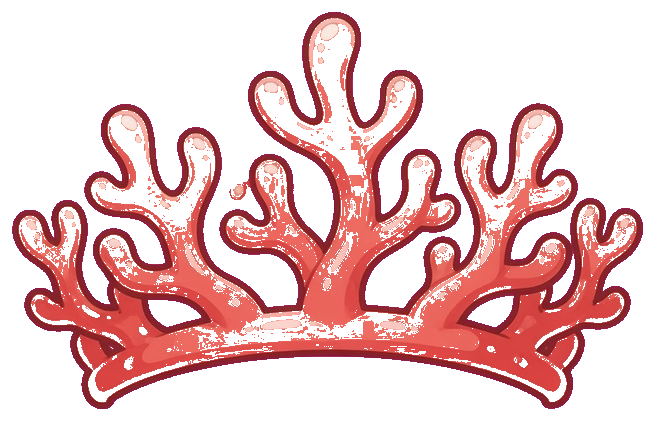
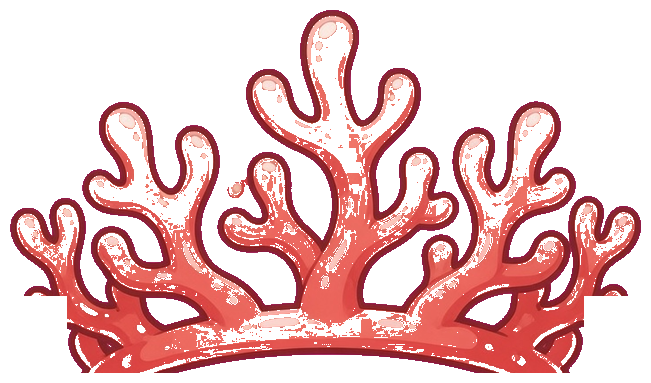
Fix crowns, gems scale, and Hold hand grips (v1.0.010)
Crowns are front-facing only — wrap-around back-of-head bands removed so
they sit on the hair instead of floating as full 3D rings. Jewelry is
smaller at the collarbone; gem pieces keep a real chain, not a bare
pendant. Hold items pin to per-look handX/handY so they land in the palm
instead of floating by the hip or tail.

diff --git a/js/config.js b/js/config.js
@@ -1,7 +1,7 @@
 'use strict';
 
 // Mermaid Dress-Up — Keep CACHE in sw.js in sync: 'dress-up-mermaid-' + GAME_VERSION
-const GAME_VERSION = '1.0.009';
+const GAME_VERSION = '1.0.010';
 const GAME_VERSION_LABEL = 'v' + GAME_VERSION;
 const GAME_NAME = 'Mermaid Dress-Up';
 
@@ -42,41 +42,41 @@ const BACKGROUNDS = [
  * Mermaid styles + poses (complete illustrated characters).
  * Colors = different outfits; pose-* = different body poses of the classic gold mermaid.
  *
- * headX / neckX = the character's true head and neck axis as a fraction of the
- * full art width. Crowns center on headX and necklaces on neckX, because the
- * bounding-box center is biased sideways by billowing hair / a curling tail and
- * is NOT where the accessory belongs. Measured per look with
- * scripts/measure-centerline.mjs; see docs/ARCHITECTURE.md → "Accessory alignment".
+ * headX / neckX / handX = axes as a fraction of full art width (crown, necklace,
+ * hold grip). Bounding-box center is biased by hair/tail and is NOT where
+ * accessories belong. See docs/ARCHITECTURE.md → "Accessory alignment".
  *
- * headY / neckY (optional) = fraction of full art height for the crown rest
- * line (bottom of crown box) and jewelry top. Only needed when a look's framing
- * differs from the gold-teal content box (pose-*). Color looks omit these and
- * use ACCESSORY_LAYOUT content-box fractions.
+ * headY / neckY (optional) = full-art-height pins for crown rest / jewelry top
+ * when framing differs from gold-teal (pose-*).
+ * handY = full-art-height grip for Hold items (defaults on LOOK_CENTER_DEFAULT).
  */
 const LOOKS = [
-  // Color looks share the same base linework (identical bounds): head axis
-  // ~0.537, torso/neck axis ~0.552 (she's drawn with a slight rightward twist).
-  { id: 'gold-teal',      label: 'Gold',     src: 'art/layers/look/gold-teal.png',      swatch: '#F5D76E', headX: 0.537, neckX: 0.552 },
-  { id: 'pink-sparkle',   label: 'Pink',     src: 'art/layers/look/pink-sparkle.png',   swatch: '#F48FB1', headX: 0.537, neckX: 0.552 },
-  { id: 'purple-night',   label: 'Purple',   src: 'art/layers/look/purple-night.png',   swatch: '#CE93D8', headX: 0.537, neckX: 0.552 },
-  { id: 'teal-braid',     label: 'Teal',     src: 'art/layers/look/teal-braid.png',     swatch: '#4DB6AC', headX: 0.537, neckX: 0.552 },
-  { id: 'ruby-sunset',    label: 'Ruby',     src: 'art/layers/look/ruby-sunset.png',    swatch: '#EF5350', headX: 0.537, neckX: 0.552 },
-  { id: 'silver-ice',     label: 'Silver',   src: 'art/layers/look/silver-ice.png',     swatch: '#E0E0E0', headX: 0.537, neckX: 0.552 },
-  { id: 'rainbow',        label: 'Rainbow',  src: 'art/layers/look/rainbow.png',        swatch: '#FF7043', headX: 0.537, neckX: 0.552 },
-  { id: 'peach-coral',    label: 'Peach',    src: 'art/layers/look/peach-coral.png',    swatch: '#FFAB91', headX: 0.537, neckX: 0.552 },
-  { id: 'deep-emerald',   label: 'Emerald',  src: 'art/layers/look/deep-emerald.png',   swatch: '#66BB6A', headX: 0.537, neckX: 0.552 },
-  { id: 'lavender-pearl', label: 'Lavender', src: 'art/layers/look/lavender-pearl.png', swatch: '#B39DDB', headX: 0.537, neckX: 0.552 },
-  // Poses: separate framing — pin crown rest / jewelry top with headY / neckY.
+  // Color looks share the same base linework: head ~0.537, neck ~0.552,
+  // right-hand palm ~0.84×0.53 (viewer's right — not the elbow/hip).
+  { id: 'gold-teal',      label: 'Gold',     src: 'art/layers/look/gold-teal.png',      swatch: '#F5D76E', headX: 0.537, neckX: 0.552, handX: 0.84, handY: 0.53 },
+  { id: 'pink-sparkle',   label: 'Pink',     src: 'art/layers/look/pink-sparkle.png',   swatch: '#F48FB1', headX: 0.537, neckX: 0.552, handX: 0.84, handY: 0.53 },
+  { id: 'purple-night',   label: 'Purple',   src: 'art/layers/look/purple-night.png',   swatch: '#CE93D8', headX: 0.537, neckX: 0.552, handX: 0.84, handY: 0.53 },
+  { id: 'teal-braid',     label: 'Teal',     src: 'art/layers/look/teal-braid.png',     swatch: '#4DB6AC', headX: 0.537, neckX: 0.552, handX: 0.84, handY: 0.53 },
+  { id: 'ruby-sunset',    label: 'Ruby',     src: 'art/layers/look/ruby-sunset.png',    swatch: '#EF5350', headX: 0.537, neckX: 0.552, handX: 0.84, handY: 0.53 },
+  { id: 'silver-ice',     label: 'Silver',   src: 'art/layers/look/silver-ice.png',     swatch: '#E0E0E0', headX: 0.537, neckX: 0.552, handX: 0.84, handY: 0.53 },
+  { id: 'rainbow',        label: 'Rainbow',  src: 'art/layers/look/rainbow.png',        swatch: '#FF7043', headX: 0.537, neckX: 0.552, handX: 0.84, handY: 0.53 },
+  { id: 'peach-coral',    label: 'Peach',    src: 'art/layers/look/peach-coral.png',    swatch: '#FFAB91', headX: 0.537, neckX: 0.552, handX: 0.84, handY: 0.53 },
+  { id: 'deep-emerald',   label: 'Emerald',  src: 'art/layers/look/deep-emerald.png',   swatch: '#66BB6A', headX: 0.537, neckX: 0.552, handX: 0.84, handY: 0.53 },
+  { id: 'lavender-pearl', label: 'Lavender', src: 'art/layers/look/lavender-pearl.png', swatch: '#B39DDB', headX: 0.537, neckX: 0.552, handX: 0.84, handY: 0.53 },
+  // Poses: separate framing — pin crown/jewelry/hand.
+  // Wave: right hand is raised; grip the lowered left hand.
   { id: 'pose-wave', label: 'Wave', src: 'art/layers/look/pose-wave.png', swatch: '#81D4FA',
-    headX: 0.465, neckX: 0.482, headY: 0.20, neckY: 0.385 },
+    headX: 0.465, neckX: 0.482, headY: 0.20, neckY: 0.385, handX: 0.24, handY: 0.50 },
+  // Side: hands near the shell top — seat hold by the outer right fingers.
   { id: 'pose-side', label: 'Side', src: 'art/layers/look/pose-side.png', swatch: '#CE93D8',
-    headX: 0.471, neckX: 0.48, headY: 0.175, neckY: 0.30 },
+    headX: 0.471, neckX: 0.48, headY: 0.175, neckY: 0.30, handX: 0.58, handY: 0.40 },
+  // Swim: left arm outstretched — grip at the extended hand.
   { id: 'pose-swim', label: 'Swim', src: 'art/layers/look/pose-swim.png', swatch: '#4DB6AC',
-    headX: 0.473, neckX: 0.48, headY: 0.25, neckY: 0.355 },
+    headX: 0.473, neckX: 0.48, headY: 0.25, neckY: 0.355, handX: 0.16, handY: 0.32 },
 ];
 
-/** Fallback head/neck axis for a look that has no measured center. */
-const LOOK_CENTER_DEFAULT = { headX: 0.538, neckX: 0.540 };
+/** Fallback axes for a look that has no measured centers. */
+const LOOK_CENTER_DEFAULT = { headX: 0.538, neckX: 0.540, handX: 0.84, handY: 0.53 };
 
 /** Crowns / tiaras (none = bare) */
 const CROWNS = [

diff --git a/js/assets.js b/js/assets.js
@@ -74,7 +74,7 @@ const LOOK_CONTENT = { x: 73 / 768, y: 65 / 1024, w: 625 / 768, h: 925 / 1024 };
 
 /**
  * Accessory placement as fractions of the character content box.
- * prop = handheld item near her side (she holds it).
+ * prop = handheld item (grip centers on handX/handY when set).
  *
  * `anchor` controls how the contain-fit art is seated vertically inside the
  * box, so crowns of different heights all rest on the head and necklaces of
@@ -85,45 +85,42 @@ const LOOK_CONTENT = { x: 73 / 768, y: 65 / 1024, w: 625 / 768, h: 925 / 1024 };
  * Tuned visually against the gold-teal reference character (see
  * docs/ARCHITECTURE.md → "Accessory alignment").
  *
- * Jewelry art is authored as shallow front-facing arcs (not full U-loops) so
- * only the worn front of the necklace shows. The jewelry box is wider than
- * tall to match that aspect.
+ * Crown art is front-facing only (no wrap-around back band). Jewelry is a
+ * shallow front arc (chain + pendant), drawn small at the collarbone.
  */
 const ACCESSORY_LAYOUT = {
-  // Slightly nested into the hairline so the band doesn't float above the head.
-  crown:   { x: 0.30,  y: -0.03, w: 0.38, h: 0.16, anchor: 'bottom' },
-  // Wide shallow box for front-arc necklaces (collarbone, not ear-to-ear loop).
-  jewelry: { x: 0.365, y: 0.355, w: 0.30, h: 0.11, anchor: 'top' },
-  // Held item — seated by her lowered right hand (viewer's right).
-  prop:    { x: 0.60,  y: 0.52,  w: 0.34, h: 0.34, anchor: 'center' },
+  // Compact front tiara nested into the hairline (not a floating halo).
+  crown:   { x: 0.30,  y: -0.01, w: 0.34, h: 0.13, anchor: 'bottom' },
+  // Small collarbone necklace — not a chest-filling medallion.
+  jewelry: { x: 0.365, y: 0.36,  w: 0.20, h: 0.075, anchor: 'top' },
+  // Hold item — palm-sized toy; grip centers on handX/handY.
+  prop:    { x: 0.72,  y: 0.44,  w: 0.18, h: 0.18, anchor: 'center' },
 };
 
 /**
- * Resolve a look's head/neck axis, falling back to the default.
- * headX/neckX = fraction of full art width.
- * headY/neckY = optional fraction of full art height (crown rest line / jewelry top).
- * When omitted, ACCESSORY_LAYOUT content-box fractions are used (gold-teal frame).
+ * Resolve a look's accessory axes, falling back to defaults.
+ * headX/neckX/handX = fraction of full art width.
+ * headY/neckY/handY = optional fraction of full art height.
+ * When vertical pins are omitted, ACCESSORY_LAYOUT content-box fractions apply.
  */
 function lookCenters(lookItem) {
   return {
     headX: (lookItem && lookItem.headX != null) ? lookItem.headX : LOOK_CENTER_DEFAULT.headX,
     neckX: (lookItem && lookItem.neckX != null) ? lookItem.neckX : LOOK_CENTER_DEFAULT.neckX,
+    handX: (lookItem && lookItem.handX != null) ? lookItem.handX : LOOK_CENTER_DEFAULT.handX,
     headY: (lookItem && lookItem.headY != null) ? lookItem.headY : null,
     neckY: (lookItem && lookItem.neckY != null) ? lookItem.neckY : null,
+    handY: (lookItem && lookItem.handY != null) ? lookItem.handY : LOOK_CENTER_DEFAULT.handY,
   };
 }
 
 /**
  * Map accessory layout into the drawn look rectangle (after contain-fit).
  *
- * Vertical (y, h) and prop horizontal come from ACCESSORY_LAYOUT (content-box
- * fractions). Crown & gems are centered horizontally on the character's true
- * head / neck axis (`centers`, full-art-width fractions) instead of the box
- * center, so hair/tail can't drag them sideways.
+ * Crown & gems center on headX / neckX. Hold items center on handX / handY
+ * (full-art fractions) so the grip lands in her palm, not on the hip/tail.
  *
- * Poses whose framing differs from gold-teal may set `centers.headY` /
- * `centers.neckY` (fractions of full art height) to pin the crown rest line
- * and jewelry top to the real head/neck.
+ * Poses may also set headY / neckY when framing differs from gold-teal.
  * @returns {{ x: number, y: number, w: number, h: number, anchor: string }}
  */
 function accessoryRect(key, lookX, lookY, lookW, lookH, centers) {
@@ -141,18 +138,22 @@ function accessoryRect(key, lookX, lookY, lookW, lookH, centers) {
     x = lookX + lookW * centers.headX - w / 2;
   } else if (key === 'jewelry' && centers && centers.neckX != null) {
     x = lookX + lookW * centers.neckX - w / 2;
+  } else if (key === 'prop' && centers && centers.handX != null) {
+    x = lookX + lookW * centers.handX - w / 2;
   } else {
-    x = cx + cw * layout.x; // prop (held at the hand) stays box-relative
+    x = cx + cw * layout.x;
   }
 
   let y = cy + ch * layout.y;
-  // Optional per-look vertical pins (full-art-height fractions).
   if (key === 'crown' && centers && centers.headY != null) {
     // Bottom of the crown box rests on the head/hairline.
     y = lookY + lookH * centers.headY - h;
   } else if (key === 'jewelry' && centers && centers.neckY != null) {
     // Top of the jewelry box sits at the neck / collarbone.
     y = lookY + lookH * centers.neckY;
+  } else if (key === 'prop' && centers && centers.handY != null) {
+    // Center of the hold box sits on the hand grip.
+    y = lookY + lookH * centers.handY - h / 2;
   }
 
   return { x, y, w, h, anchor: layout.anchor || 'center' };

diff --git a/sw.js b/sw.js
@@ -1,5 +1,5 @@
 // Mermaid Dress-Up — bump with GAME_VERSION in js/config.js
-const CACHE = 'dress-up-mermaid-1.0.009';
+const CACHE = 'dress-up-mermaid-1.0.010';
 
 const ASSETS = [
   './',

diff --git a/docs/ARCHITECTURE.md b/docs/ARCHITECTURE.md
@@ -62,16 +62,19 @@ its box (so crowns/necklaces of different heights all land correctly):
 
 - `crown` — `anchor: 'bottom'`: the crown base rests on the top of the hair.
 - `jewelry` — `anchor: 'top'`: the necklace hangs down from the neck.
-- `prop` — `anchor: 'center'`: the handheld item sits by her hand.
+- `prop` — `anchor: 'center'`: the handheld item is centered on the hand grip.
 
 **Horizontal centering is per-look, not per-box.** The content-box *center* is
-not where the head/neck sit: billowing hair and a curling tail pull the bounding
-box sideways (e.g. the head axis is ~0.537 of art width while the box center is
-~0.50). So each look carries a measured `headX` / `neckX` (fraction of art
-width) in `config.js`; `accessoryRect` centers the **crown on `headX`** and the
-**gems on `neckX`**, using `ACCESSORY_LAYOUT.x` only as a fallback and for the
-`prop` (which tracks her hand, not the centerline). Re-measure with
-`node scripts/measure-centerline.mjs art/layers/look/*.png` if art changes.
+not where the head/neck/hand sit: billowing hair and a curling tail pull the
+bounding box sideways. Each look carries measured `headX` / `neckX` / `handX`
+(fractions of art width) in `config.js`; `accessoryRect` centers the **crown on
+`headX`**, the **gems on `neckX`**, and the **hold item on `handX`/`handY`**.
+Re-measure with `node scripts/measure-centerline.mjs art/layers/look/*.png` if
+art changes.
+
+**Crown art must be front-facing only** — no wrap-around band that would sit
+behind the head (those arms read as “floating over the face”). Jewelry is a
+shallow collarbone arc with chain + pendant, drawn small (not chest-sized).
 
 `accessoryRect` maps a layout into a pixel box within the drawn look rect;
 `anchorOffsetY` computes the vertical seat. **These values were tuned visually**
